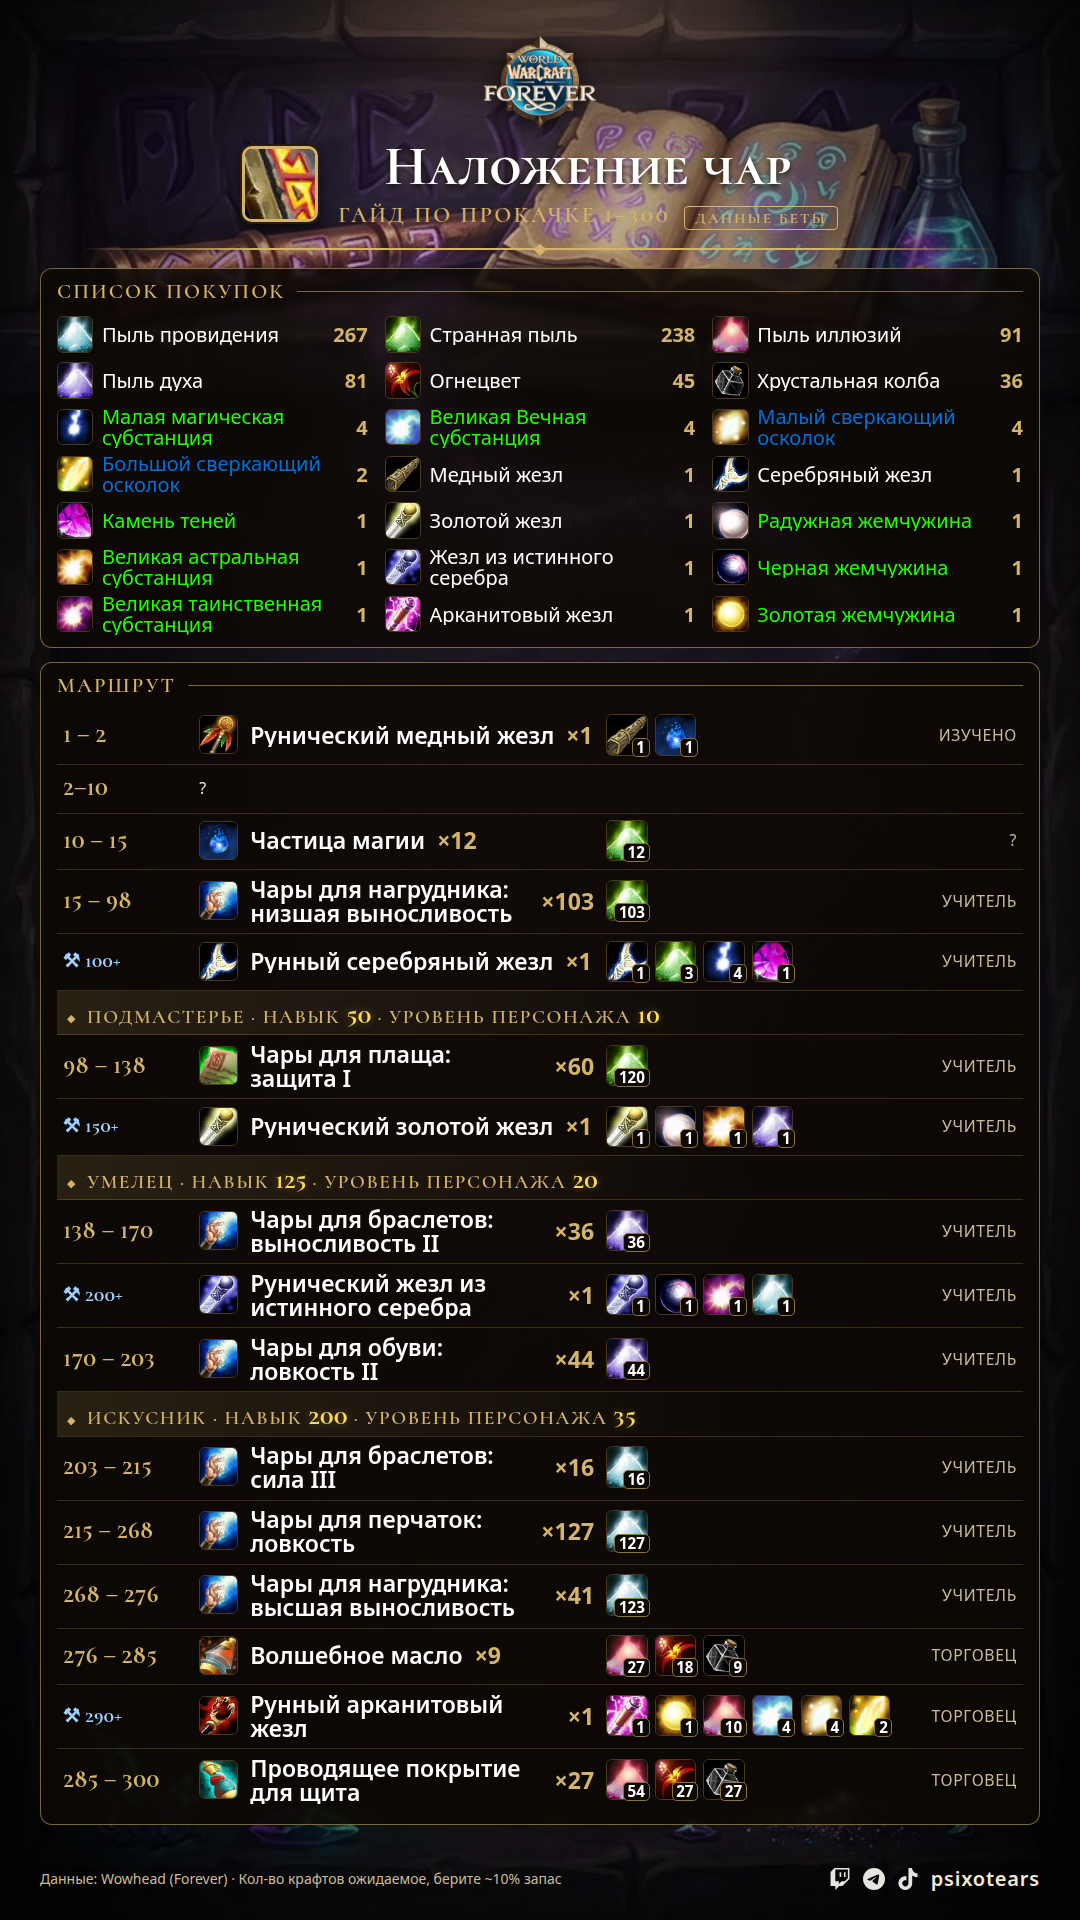
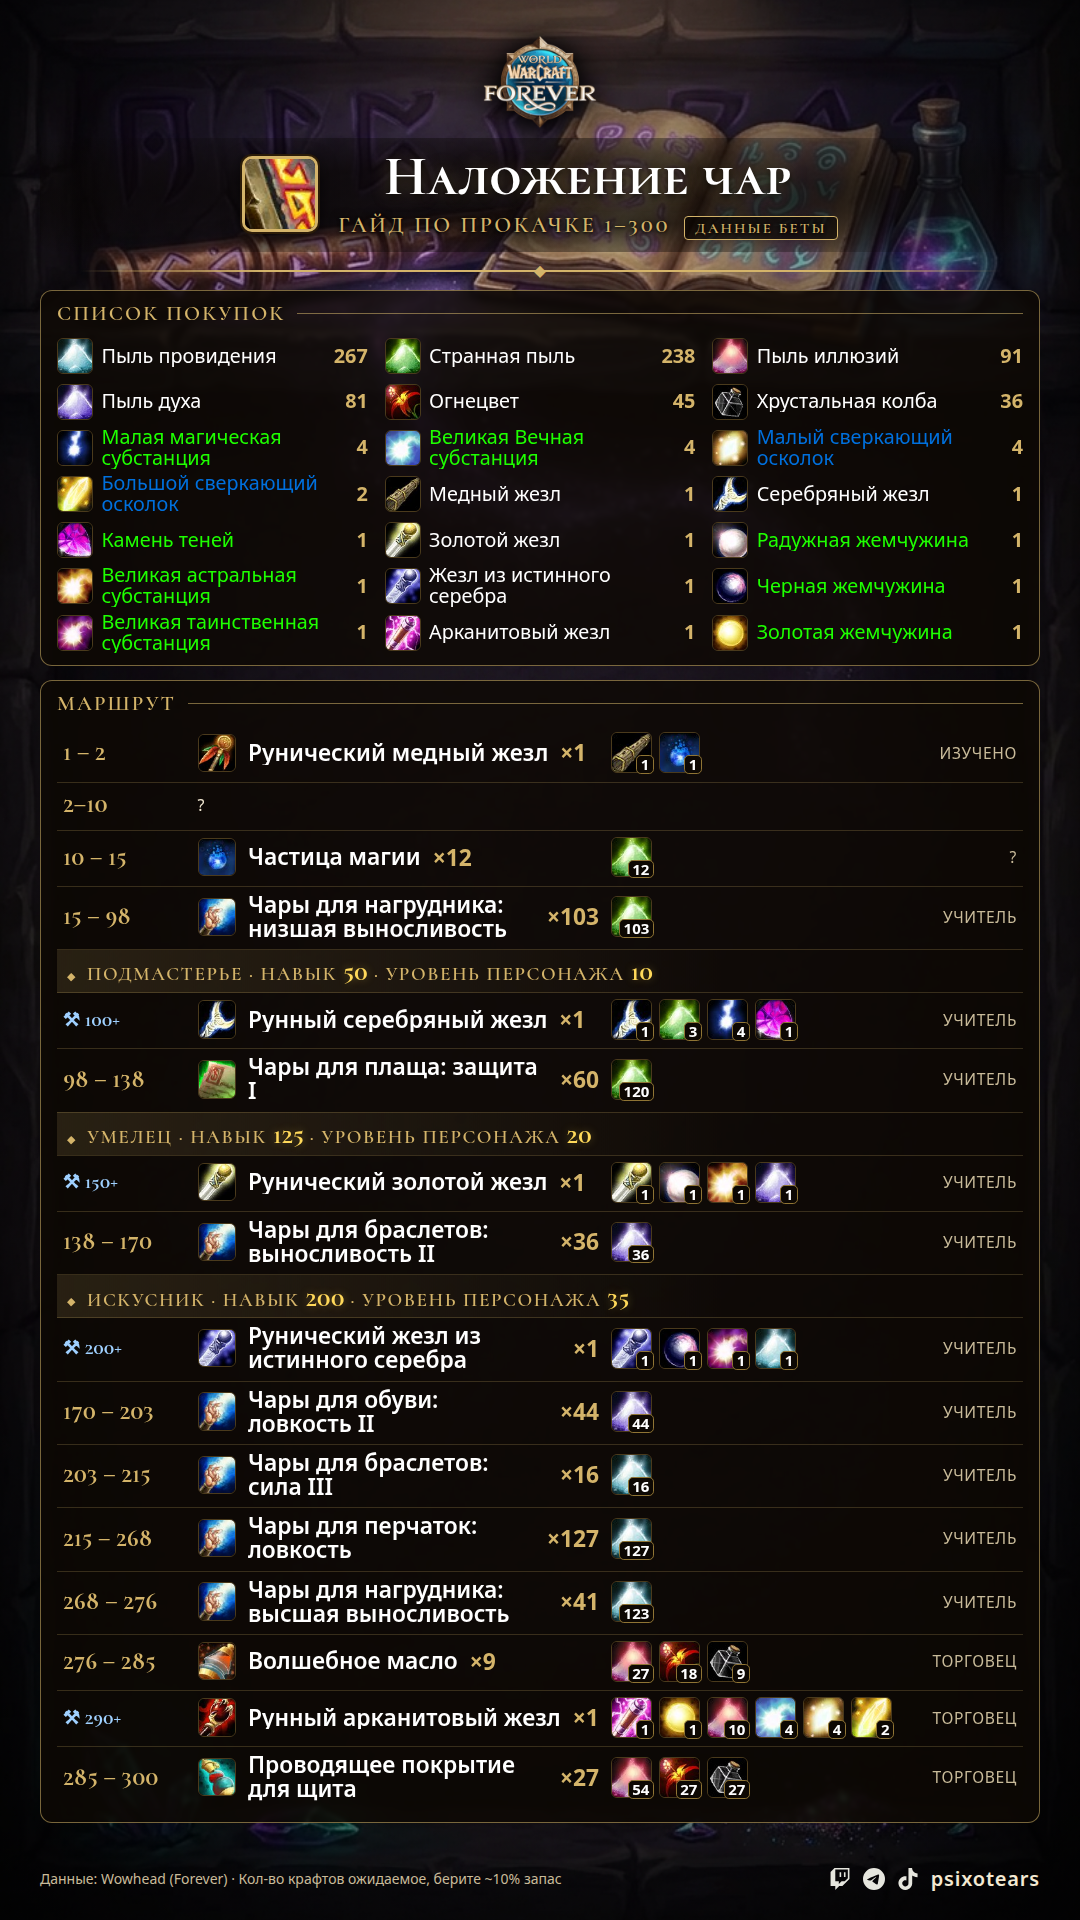
Title backdrop for bright header art, rods respect rank checkpoints
Claude-Session: https://claude.ai/code/session_012e8LnHD2AptEEnhumMxWH2

diff --git a/wow-cards/pipeline/render.py b/wow-cards/pipeline/render.py
@@ -47,14 +47,14 @@ body{font-family:BODYFONT;color:var(--ink);position:relative}
 .card{position:absolute;inset:0;padding:34px 40px 28px;display:flex;flex-direction:column;gap:14px}
 .head{text-align:center}
 .logo{height:96px;display:flex;align-items:center;justify-content:center}
-.logo img{max-height:96px;max-width:520px;filter:drop-shadow(0 4px 10px rgba(0,0,0,.7))}
+.logo img{max-height:96px;max-width:520px;filter:drop-shadow(0 4px 10px rgba(0,0,0,.9)) drop-shadow(0 0 18px rgba(0,0,0,.8))}
 .logo .txt{font-family:HEADFONT;font-size:34px;letter-spacing:.14em;color:var(--gold);text-shadow:0 2px 8px #000}
-.titlerow{display:flex;align-items:center;justify-content:center;gap:20px;margin-top:8px}
+.titlerow{display:flex;align-items:center;justify-content:center;gap:20px;margin-top:8px;padding:10px 40px 12px;border-radius:14px;background:radial-gradient(ellipse at center,rgba(8,5,2,.72) 40%,rgba(8,5,2,.35) 75%,transparent 100%)}
 .skillicon{width:76px;height:76px;border:3px solid var(--gold);border-radius:10px;box-shadow:0 0 0 2px #2a1b08,0 6px 18px rgba(0,0,0,.8);background:#000}
 .skillicon img{width:100%;height:100%;border-radius:7px;display:block}
 h1{font-family:HEADFONT;font-size:56px;line-height:1;color:#fff;text-shadow:0 0 18px rgba(212,180,106,.35),0 3px 6px #000;font-weight:700}
-.sub{font-family:HEADFONT;font-size:22px;letter-spacing:.12em;color:var(--gold);margin-top:8px;text-transform:uppercase}
-.beta{display:inline-block;margin-left:14px;padding:2px 10px;border:1.5px solid var(--gold);border-radius:4px;font-size:15px;letter-spacing:.14em;vertical-align:middle;color:var(--gold)}
+.sub{font-family:HEADFONT;font-size:22px;letter-spacing:.12em;color:var(--gold);margin-top:8px;text-transform:uppercase;text-shadow:0 1px 3px #000,0 0 10px rgba(0,0,0,.9)}
+.beta{display:inline-block;margin-left:14px;padding:2px 10px;background:rgba(8,5,2,.6);border:1.5px solid var(--gold);border-radius:4px;font-size:15px;letter-spacing:.14em;vertical-align:middle;color:var(--gold)}
 .rule{height:2px;background:linear-gradient(90deg,transparent,var(--gold) 20%,var(--gold) 80%,transparent);position:relative;margin:4px 40px}
 .rule::after{content:'◆';position:absolute;left:50%;top:-11px;transform:translateX(-50%);color:var(--gold);font-size:16px;background:transparent}
 .panel{background:var(--panel);border:1.5px solid var(--line);border-radius:12px;padding:10px 16px 12px;backdrop-filter:blur(2px)}
@@ -108,7 +108,7 @@ def build(prof, lang, bg='../../bg/placeholder.png', logo=None, s=1.0):
     done = set()
     for st in d['steps']:
         for sk, ri, lvl in CHECK:
-            if ri not in done and st.get('from', 0) >= sk and not st.get('extra'):
+            if ri not in done and st.get('from', 0) >= sk:
                 done.add(ri)
                 rows.append(f'<tr class="chk"><td colspan="4"><span class="d">◆</span> {esc(ui["ranknames"][ri])} · {esc(ui["skilllbl"])} <b>{sk}</b> · {esc(ui["charlvl"])} <b>{lvl}</b></td></tr>')
         if st.get('missing'):
